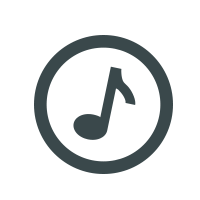
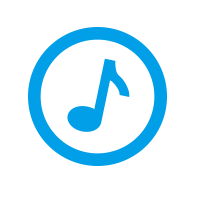
Updates some graphical resources with new brand.

Changed region(s): [[0.12, 0.12, 0.87, 0.87], [0.33, 0.27, 0.69, 0.72]]

diff --git a/nuxeo-ios-app/Classes/Categories/NUXDocument+Utils.m b/nuxeo-ios-app/Classes/Categories/NUXDocument+Utils.m
@@ -15,6 +15,9 @@
 
 #define kNuxeoDocumentTypeFile          @"File"
 #define kNuxeoDocumentTypeNote          @"Note"
+#define kNuxeoDocumentTypeVideo         @"Video"
+#define kNuxeoDocumentTypePicture       @"Picture"
+#define kNuxeoDocumentTypeAudio          @"Audio"
 
 #define kNuxeoDocumentFacetFolder       @"Folderish"
 #define kNuxeoDocumentFacetSynchronized @"DriveSynchronized"
@@ -42,13 +45,34 @@
     return NO;
 }
 
-- (NSString *) pictoForDocument
+- (NSString *) pictoForDocument:(NSString *)context
 {
     if ([self isFolder] == YES)
     {
-        return @"ic_type_folder";
+        return [NSString stringWithFormat:@"ic%@type_folder",context];
     }
-    return @"ic_type_file";
+    if ([self.type isEqualToString:kNuxeoDocumentTypeFile])
+    {
+        return [NSString stringWithFormat:@"ic%@type_file",context];
+    }
+    else if ([self.type isEqualToString:kNuxeoDocumentTypeNote])
+    {
+        return [NSString stringWithFormat:@"ic%@type_note",context];
+    }
+    else if ([self.type isEqualToString:kNuxeoDocumentTypeVideo])
+    {
+        return [NSString stringWithFormat:@"ic%@type_video",context];
+    }
+    else if ([self.type isEqualToString:kNuxeoDocumentTypePicture])
+    {
+        return [NSString stringWithFormat:@"ic%@type_image",context];
+    }
+    else if ([self.type isEqualToString:kNuxeoDocumentTypeAudio])
+    {
+        return [NSString stringWithFormat:@"ic%@type_sound",context];
+    }
+    return [NSString stringWithFormat:@"ic%@type_file",context];
+    
 }
 
 @end

diff --git a/nuxeo-ios-app/Classes/Controller/Browse/BrowseDocumentListViewController.m b/nuxeo-ios-app/Classes/Controller/Browse/BrowseDocumentListViewController.m
@@ -236,7 +236,7 @@
         
         [cell setTarget:self forIndexPath:indexPath];
         
-        cell.picto.image = [UIImage imageNamed:[selectedDocument pictoForDocument]];
+        cell.picto.image = [UIImage imageNamed:[selectedDocument pictoForDocument:self.context]];
         cell.backgroundColor = [UIColor clearColor];
         [cell localizeRecursively];
         
@@ -293,6 +293,9 @@
 - (void)dealloc
 {
     [_documentsView release];
+    
+    [_context release];
+    [_path release];
     
     self.docController = nil;
     

diff --git a/nuxeo-ios-app/Classes/Controller/Browse/BrowseDocumentListViewController.h b/nuxeo-ios-app/Classes/Controller/Browse/BrowseDocumentListViewController.h
@@ -27,6 +27,9 @@
 
 #import "NuxeoLabel.h"
 
+#define kBrowseDocumentOnLine @"_"
+#define kBrowseDocumentOffLine @"_synch"
+
 @class NUXDocument;
 
 @interface BrowseDocumentListViewController : NuxeoDriveViewController<UITableViewDataSource, UITableViewDelegate>
@@ -35,6 +38,7 @@
 }
 
 @property (nonatomic, retain) NSString * path;
+@property (nonatomic, retain) NSString * context;
 @property (retain, nonatomic) NUXDocument * currentDocument;
 
 @property (retain, nonatomic) IBOutlet UITableView *documentsView;

diff --git a/nuxeo-ios-app/Classes/Controller/Browse/DirectoryViewCell.m b/nuxeo-ios-app/Classes/Controller/Browse/DirectoryViewCell.m
@@ -25,7 +25,8 @@
 - (id)initWithFrame:(CGRect)frame
 {
     self = [super initWithFrame:frame];
-    if (self) {
+    if (self)
+    {
         // Initialization code
         self.enabled = NO;
     }

diff --git a/nuxeo-ios-app/Classes/Categories/NUXDocument+Utils.h b/nuxeo-ios-app/Classes/Categories/NUXDocument+Utils.h
@@ -14,6 +14,6 @@
 - (BOOL) isFolder;
 - (BOOL) isDriveSynchronizedFolder;
 
-- (NSString *) pictoForDocument;
+- (NSString *) pictoForDocument:(NSString *)context;
 
 @end
